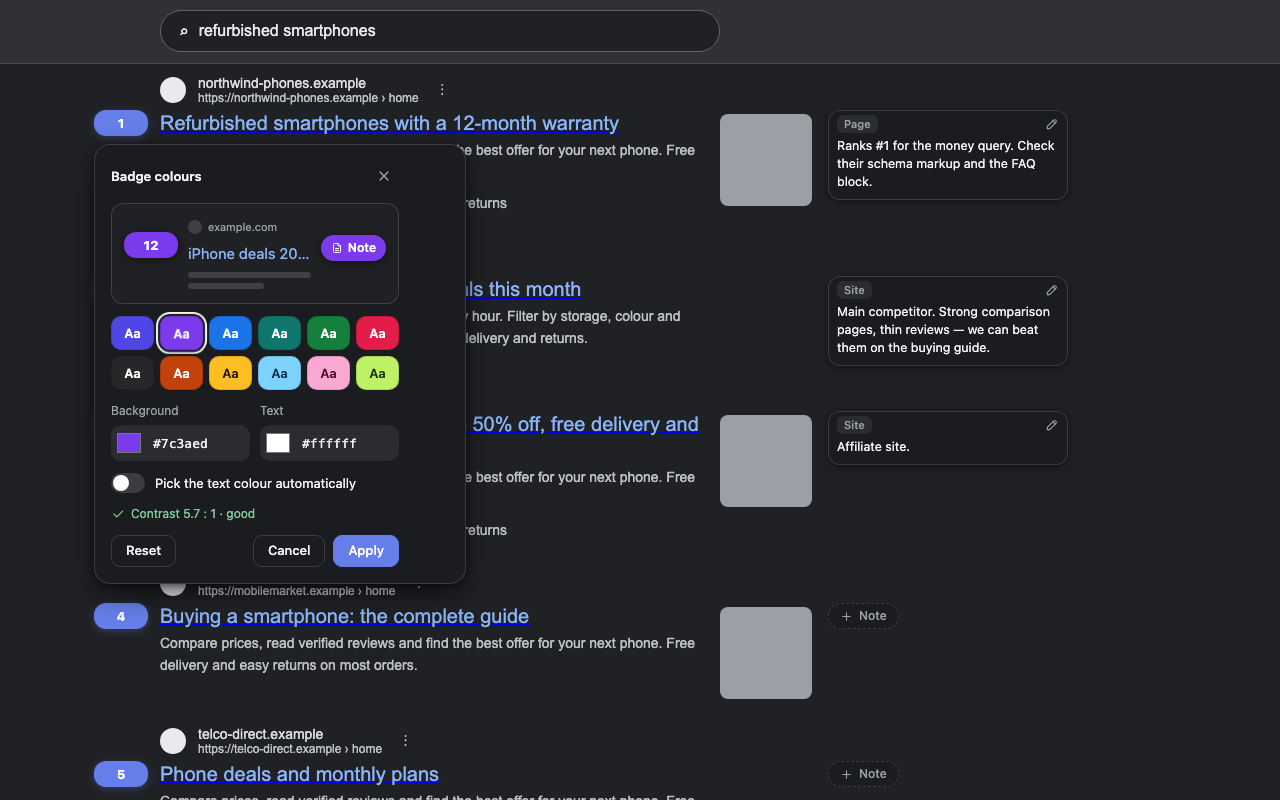
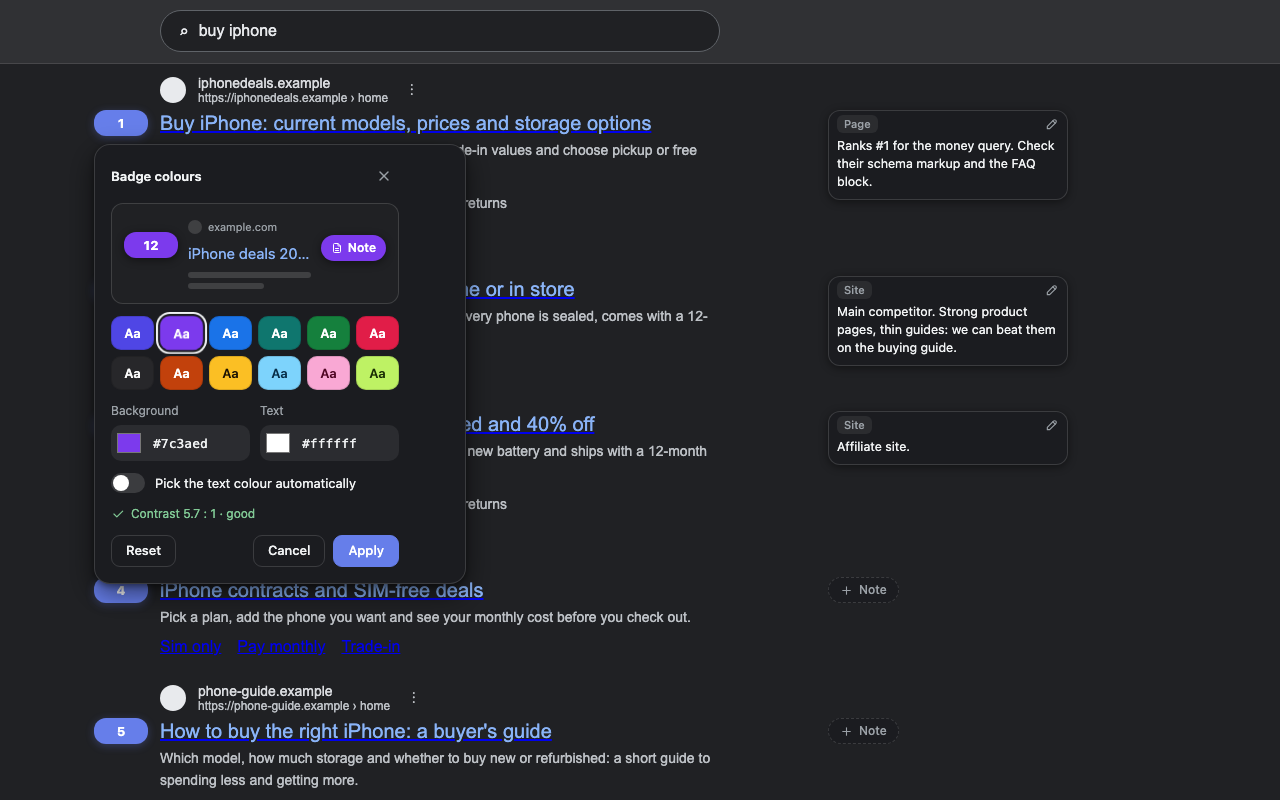
Store images: buy iphone query, fictional shops without thumbnails, tagline 'Counts SERP for you.'

diff --git a/e2e/store-assets.spec.ts b/e2e/store-assets.spec.ts
@@ -19,23 +19,49 @@ const BUNDLE = readFileSync(join(DIST, "contentScript.js"), "utf8");
 const LOCKUP = readFileSync(resolve(ROOT, "brand/rung-lockup-on-dark.svg"), "utf8").replace(/ width="[\d.]+" height="[\d.]+"/, "");
 mkdirSync(OUT, { recursive: true });
 
+const QUERY = "buy iphone";
+
+/** Fictional shops (.example domains), no thumbnails: nothing here is a real site or image. */
 const RESULTS: ResultSpec[] = [
-  { host: "northwind-phones.example", title: "Refurbished smartphones with a 12-month warranty", thumbnail: true, rating: true },
-  { host: "pocketshop.example", title: "Compare the best smartphone deals this month", snippet: "Side-by-side prices from 40 shops, updated every hour. Filter by storage, colour and battery health, and see which offers include free delivery and returns." },
-  { host: "handset-hub.example", title: "Certified refurbished phones: up to 50% off, free delivery and returns", thumbnail: true, rating: true },
-  { host: "mobilemarket.example", title: "Buying a smartphone: the complete guide", thumbnail: true },
-  { host: "telco-direct.example", title: "Phone deals and monthly plans", sitelinks: true },
+  {
+    host: "iphonedeals.example",
+    title: "Buy iPhone: current models, prices and storage options",
+    snippet: "Compare iPhone models side by side, check trade-in values and choose pickup or free delivery. Finance available on all new phones.",
+    rating: true,
+  },
+  {
+    host: "mobilestore.example",
+    title: "iPhone with free delivery: buy online or in store",
+    snippet: "Order today and get your new iPhone next day. Every phone is sealed, comes with a 12-month warranty and 30-day returns.",
+  },
+  {
+    host: "refurbished-phones.example",
+    title: "Refurbished iPhone: certified, tested and 40% off",
+    snippet: "Each device passes a 60-point inspection, gets a new battery and ships with a 12-month warranty. Same iPhone, lower price.",
+    rating: true,
+  },
+  {
+    host: "network-direct.example",
+    title: "iPhone contracts and SIM-free deals",
+    snippet: "Pick a plan, add the phone you want and see your monthly cost before you check out.",
+    sitelinks: true,
+  },
+  {
+    host: "phone-guide.example",
+    title: "How to buy the right iPhone: a buyer's guide",
+    snippet: "Which model, how much storage and whether to buy new or refurbished: a short guide to spending less and getting more.",
+  },
 ];
 
 const SEED = {
-  "n:s:pocketshop.example": "Main competitor. Strong comparison pages, thin reviews — we can beat them on the buying guide.",
-  "n:u:https://northwind-phones.example/p0": "Ranks #1 for the money query. Check their schema markup and the FAQ block.",
-  "n:s:handset-hub.example": "Affiliate site.",
+  "n:s:mobilestore.example": "Main competitor. Strong product pages, thin guides: we can beat them on the buying guide.",
+  "n:u:https://iphonedeals.example/p0": "Ranks #1 for the money query. Check their schema markup and the FAQ block.",
+  "n:s:refurbished-phones.example": "Affiliate site.",
 };
 
 async function openSerp(page: Page, dark: boolean): Promise<void> {
   await page.setViewportSize({ width: 1280, height: 800 });
-  await page.setContent(serpPage({ results: RESULTS, dark, query: "refurbished smartphones" }));
+  await page.setContent(serpPage({ results: RESULTS, dark, query: QUERY }));
   await page.evaluate((s) => Object.assign((window as never as { __mem: object }).__mem, s), SEED);
   await page.addScriptTag({ content: BUNDLE });
   await page.waitForSelector("serp-counter-host", { state: "attached" });
@@ -114,7 +140,7 @@ body{margin:0;width:${width}px;height:${height}px;overflow:hidden;background:#12
 p{margin:0;font-size:${big ? 27 : 16}px;color:#c9caf5;line-height:1.4;max-width:${big ? 460 : 330}px}
 .s{flex:none;width:${big ? 700 : 0}px;border-radius:14px;overflow:hidden;background:#fff;box-shadow:0 24px 56px rgba(0,0,0,.45);display:${withShot ? "block" : "none"}}
 .s img{width:100%;display:block}
-</style><div class="l"><div class="lockup">${LOCKUP}</div><p>Number every result. Pin notes where you search.</p></div>
+</style><div class="l"><div class="lockup">${LOCKUP}</div><p>Counts SERP for you.</p></div>
 <div class="s">${withShot ? `<img src="${shotData}">` : ""}</div>`;
 }
 
